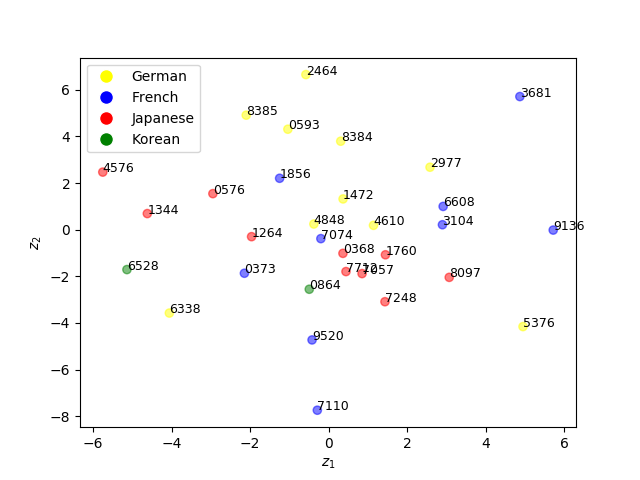
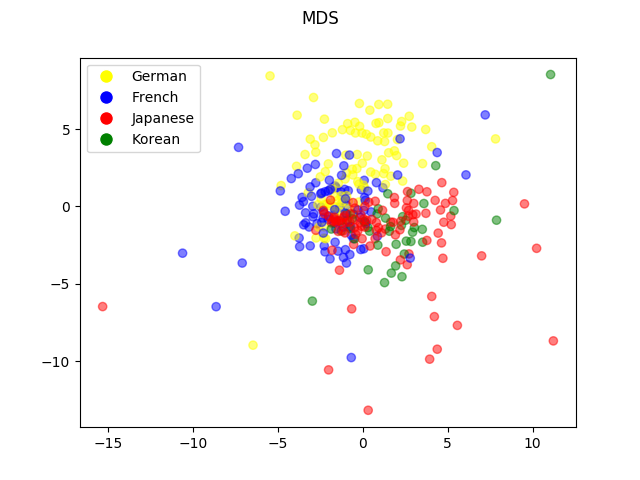
publicized
Forgot to post this after the end of the project. Everything should be up now.

diff --git a/ml.py b/ml.py
@@ -10,6 +10,9 @@ from sklearn.preprocessing import StandardScaler
 
 
 def colour_mapping(de, fr, ja, ko):
+    """
+    Function to map each language to a particular colour.
+    """
     if de == 1:
         return 'yellow'
     elif fr == 1:
@@ -22,48 +25,58 @@ def colour_mapping(de, fr, ja, ko):
 
 scaler = StandardScaler()
 
-data = pd.read_csv('tweets/presentation_data.csv')
+data = pd.read_csv('tweets/data.csv')
 ids = data.loc[:, :'id'].to_dict()['id']
 colours = data.loc[:, 'de':'ko'].apply((lambda x: colour_mapping(x[0], x[1], x[2], x[3])), axis=1)
 
 data = data.drop(labels='id', axis=1)
 scaled_columns = scaler.fit_transform(data.loc[:, 'hashtags':])
-data = np.concatenate([data.loc[:, 'de':'sentiment'], scaled_columns], axis=1)
+# data = np.concatenate([data.loc[:, 'de':'sentiment'], scaled_columns], axis=1)
+data = np.concatenate([data.loc[:, 'sentiment':'sentiment'], scaled_columns], axis=1)
 
 legend_elements = [
     Line2D([0], [0], marker='o', color='w', label='German', markerfacecolor='yellow', markersize=10),
     Line2D([0], [0], marker='o', color='w', label='French', markerfacecolor='blue', markersize=10),
     Line2D([0], [0], marker='o', color='w', label='Japanese', markerfacecolor='red', markersize=10),
     Line2D([0], [0], marker='o', color='w', label='Korean', markerfacecolor='green', markersize=10),
-
 ]
 
 
-def plot(Z, title, knn=5, dbscan_args=None, agg_n=4, birch_args=None):
+def plot(Z, title, knn=15, dbscan_args=None, agg_n=4, birch_args=None):
+    """
+    Plot the scatterplot for the data, along with 3 different clusterings thereof.
+    :param Z: output from dimensionality reduction
+    :param title: title of this plot
+    :param knn: number of neighbours to look for in the k-nearest-neighbour graph
+    :param dbscan_args: arguments for DBSCAN clustering
+    :param agg_n: number of clusters to look for in agglomerative clustering
+    :param birch_args: arguments for Birch clustering
+    """
+
     if birch_args is None:
-        birch_args = {'n_clusters': None, 'threshold': 4, 'branching_factor': 5}
+        birch_args = {'n_clusters': None, 'threshold': 0.5, 'branching_factor': 20}
     if dbscan_args is None:
-        dbscan_args = {'eps': 0.5, 'min_samples': 5}
+        dbscan_args = {'eps': 2, 'min_samples': 5}
 
     f, ((ax1, ax2), (ax3, ax4)) = plt.subplots(2, 2, sharex='col', sharey='row', num=title)
     f.suptitle(title)
     ax1.scatter(Z[:, 0], Z[:, 1], alpha=0.5, c=colours)
-    ax1.legend(handles=legend_elements)
-    ax1.set_title('No clustering')
-    for i in ids.keys():
-        ax1.text(Z[int(i), 0], Z[i, 1], str(ids[i] % 10000).zfill(4), fontsize=9)
+    # ax1.legend(handles=legend_elements)
+    ax1.set_title('Language Colouring')
+    # for i in ids.keys():
+    #     ax1.text(Z[int(i), 0], Z[i, 1], str(ids[i] % 10000).zfill(4), fontsize=9)
 
     knn_graph = kneighbors_graph(data, knn, include_self=False)
     agg_clustering = AgglomerativeClustering(n_clusters=agg_n, connectivity=knn_graph)
-    ax2.scatter(Z[:, 0], Z[:, 1], alpha=1, c=agg_clustering.fit_predict(data), cmap=plt.get_cmap('Dark2'))
+    ax2.scatter(Z[:, 0], Z[:, 1], alpha=0.5, c=agg_clustering.fit_predict(data), cmap=plt.get_cmap('Dark2'))
     ax2.set_title(f'Agglomerative (knn$_{{{knn}}}$, ward)')
 
     dbscan = DBSCAN(eps=dbscan_args['eps'], min_samples=dbscan_args['min_samples'])
-    ax3.scatter(Z[:, 0], Z[:, 1], alpha=1, c=dbscan.fit_predict(data), cmap=plt.get_cmap('Dark2'))
+    ax3.scatter(Z[:, 0], Z[:, 1], alpha=0.5, c=dbscan.fit_predict(data), cmap=plt.get_cmap('Dark2'))
     ax3.set_title('DBSCAN')
 
     birch = Birch(n_clusters=birch_args['n_clusters'], threshold=birch_args['threshold'], branching_factor=birch_args['branching_factor'])
-    ax4.scatter(Z[:, 0], Z[:, 1], alpha=1, c=birch.fit_predict(data), cmap=plt.get_cmap('Dark2'))
+    ax4.scatter(Z[:, 0], Z[:, 1], alpha=0.5, c=birch.fit_predict(data), cmap=plt.get_cmap('Dark2'))
     ax4.set_title('Birch')
 
     for ax in [ax1, ax2, ax3, ax4]:
@@ -72,19 +85,43 @@ def plot(Z, title, knn=5, dbscan_args=None, agg_n=4, birch_args=None):
     for ax in [ax1, ax2, ax3, ax4]:
         ax.label_outer()
 
-    # plt.savefig(f'figs/{title}.png')
+    plt.savefig(f'figs/{title}.png')
 
 
-tsne = TSNE(perplexity=10)
+def solo_plot(Z, title):
+    """
+    Plot just the standalone scatterplot of the data.
+    :param Z: output of the dimensionality reduction
+    :param title: name of this plot
+    """
+    plt.figure(title)
+    plt.suptitle(title)
+    plt.scatter(Z[:, 0], Z[:, 1], alpha=0.5, c=colours)
+    plt.legend(handles=legend_elements)
+    # for i in ids.keys():
+    #     plt.text(Z[int(i), 0], Z[i, 1], str(ids[i] % 10000).zfill(4), fontsize=9)
+
+    plt.savefig(f'figs/{title.lower()}.png')
+
+
+tsne = TSNE()
 z = tsne.fit_transform(data)
 plot(z, 't-SNE')
+solo_plot(z, 't-SNE')
 
 mds = MDS()
 z = mds.fit_transform(data)
 plot(z, 'MDS')
+solo_plot(z, 'MDS')
 
 pca = PCA(n_components=2)
 z = pca.fit_transform(data)
-plot(z, 'PCA', dbscan_args={'eps': 0.3, 'min_samples': 10})
+plot(z, 'PCA')
+solo_plot(z, 'PCA')
+
+pca_no_onehot = PCA(n_components=2)
+z = pca_no_onehot.fit_transform(data)
+plot(z, 'PCA (no one-hot)')
+solo_plot(z, 'PCA (no one-hot)')
 
 plt.show()
